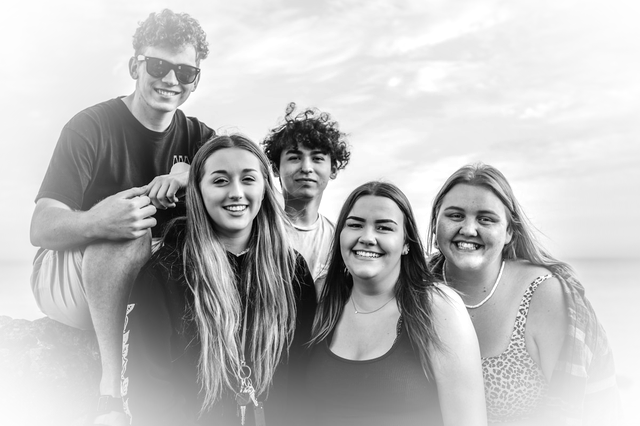
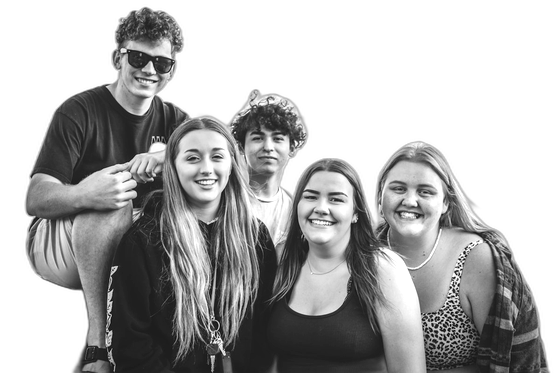
fix: true background-removed cutouts, repositioned clear of feature text
Previous version used a soft feathered-edge fade over the full photo,
which still showed grass/sky/etc — not what was asked ("only the
people on it"). Ran real background segmentation (rembg, human model)
to get true alpha cutouts with just the people, then converted those
to black-and-white.

Also fixed real overlap: the photos were positioned at a fixed % from
the section edge, but the feature grid lives inside a centered
max-width wrapper, so on normal desktop widths the photo edge landed
on top of the first/last card's text. Gave photo-bearing sections a
dedicated top band via a `.has-photo` padding-top modifier and moved
the photos into that band, above the grid entirely — verified via
getBoundingClientRect that photo and feature-text rects have zero
intersection at both 1280px and 1440px widths.

diff --git a/index.html b/index.html
@@ -172,19 +172,23 @@
     z-index: 12;
   }
 
-  /* Black-and-white community photos — real people, feathered edges (no hard
-     photo border), floating in the corner of a gradient section. */
+  /* Black-and-white community photos — real people, true cut-out (no photo
+     background at all). Given their own dedicated band of space above the
+     features grid via extra padding-top, so they can never sit on top of
+     the feature card text at any viewport width. */
+  .features-layer.has-photo { padding-top: 210px; }
   .community-photo {
     position: absolute;
-    top: 6%;
-    width: 220px;
+    top: 20px;
+    width: 190px;
     z-index: 8;
     pointer-events: none;
-    filter: drop-shadow(0 18px 34px rgba(20,20,20,0.2));
+    filter: drop-shadow(0 14px 26px rgba(20,20,20,0.18));
   }
-  .community-photo.pos-left { left: 2%; }
-  .community-photo.pos-right { right: 2%; }
+  .community-photo.pos-left { left: 6%; }
+  .community-photo.pos-right { right: 6%; }
   @media (max-width: 900px) {
+    .features-layer.has-photo { padding-top: 52px; }
     .community-photo { display: none; }
   }
 
@@ -1278,7 +1282,7 @@
 </section>
 
 <section class="scroll-layer">
-  <div class="gradient-section features-layer">
+  <div class="gradient-section features-layer has-photo">
     <img class="community-photo pos-left" src="assets/community-1.png" alt="Friends laughing together at a SHAKE gathering">
     <div class="wrapper">
       <div class="features">
@@ -1303,7 +1307,7 @@
 </section>
 
 <section class="scroll-layer features-scroll-layer">
-  <div class="gradient-section features-layer">
+  <div class="gradient-section features-layer has-photo">
   <div class="divider-icon-strip">
     <div class="divider-icon-strip-track">
       <div class="icon-join-wrapper" onclick="openJoinModal('brunch')" role="button" aria-label="Join Brunch">
